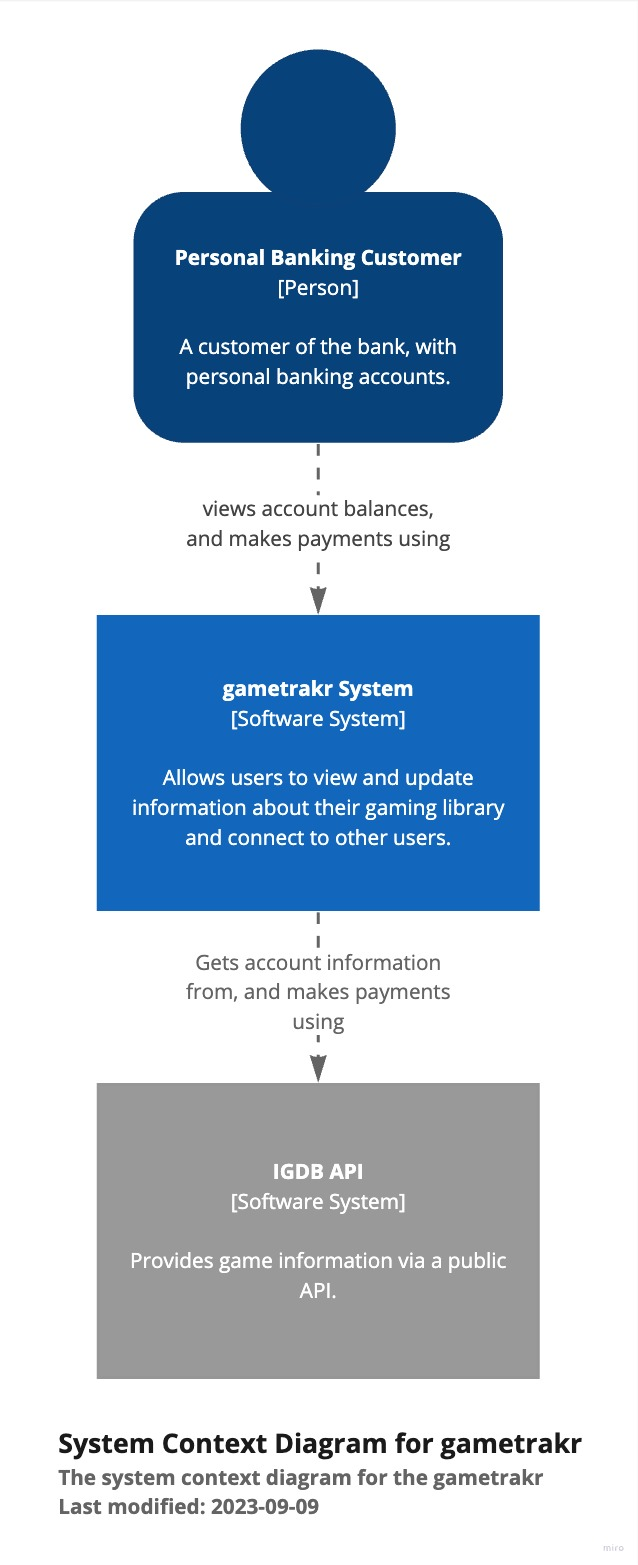
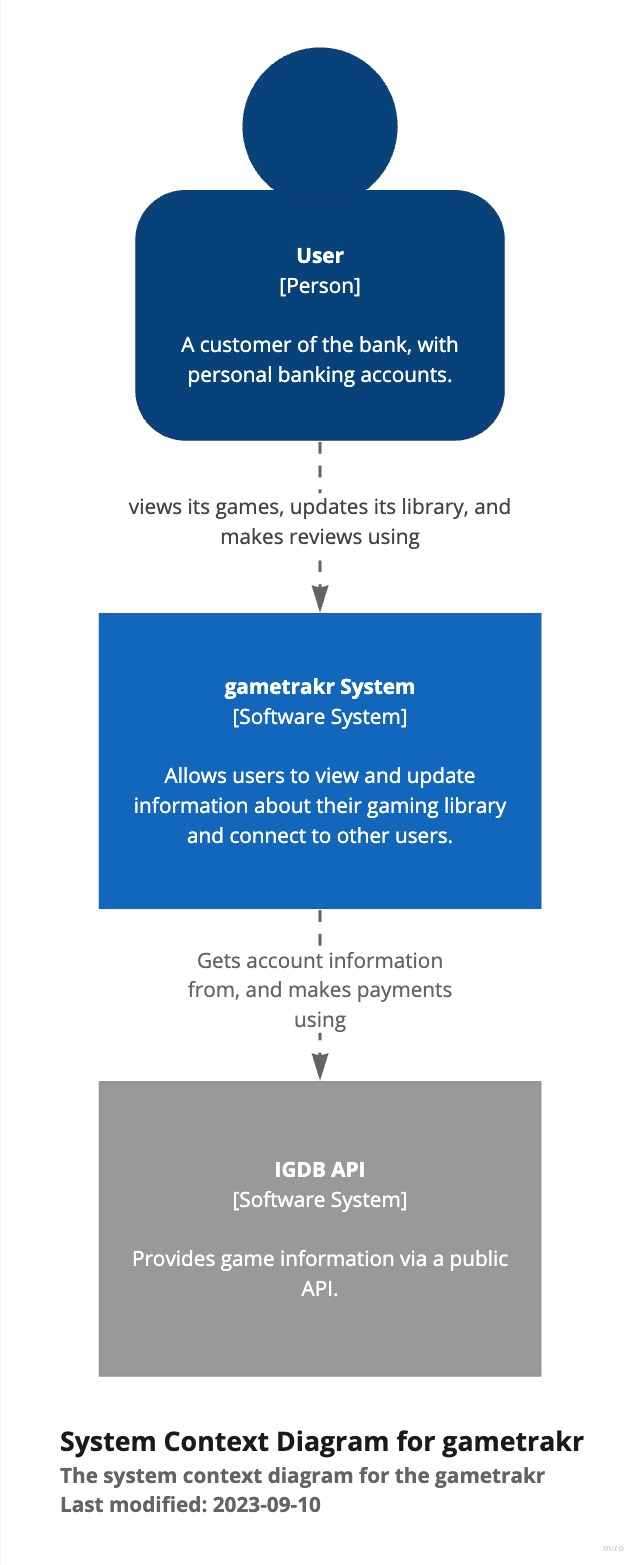
wip: fix diagram

diff --git a/docs/requirements.md b/docs/requirements.md
@@ -13,7 +13,7 @@
 1. **Personalized recommendations:** The platform should provide personalized game recommendations based on user preferences and activities.
 1. **Social interaction:** Users can like, comment on, share reviews, and discuss games.
 1. **Badges:** Users can earn badges for completing challenges and activities on the platform.
-1. **Manage wishlist:** Users can add or remove games from their wishlist for future reference.
+1. **Manage library:** Users can add or remove games from their library for future reference.
 1. **Thirdy-party API:** The platform should be able to integrate with third-party APIs to sync game libraries from other platforms such as Steam, Epic Games, and others.
 
 ## Non-Functional Requirements
